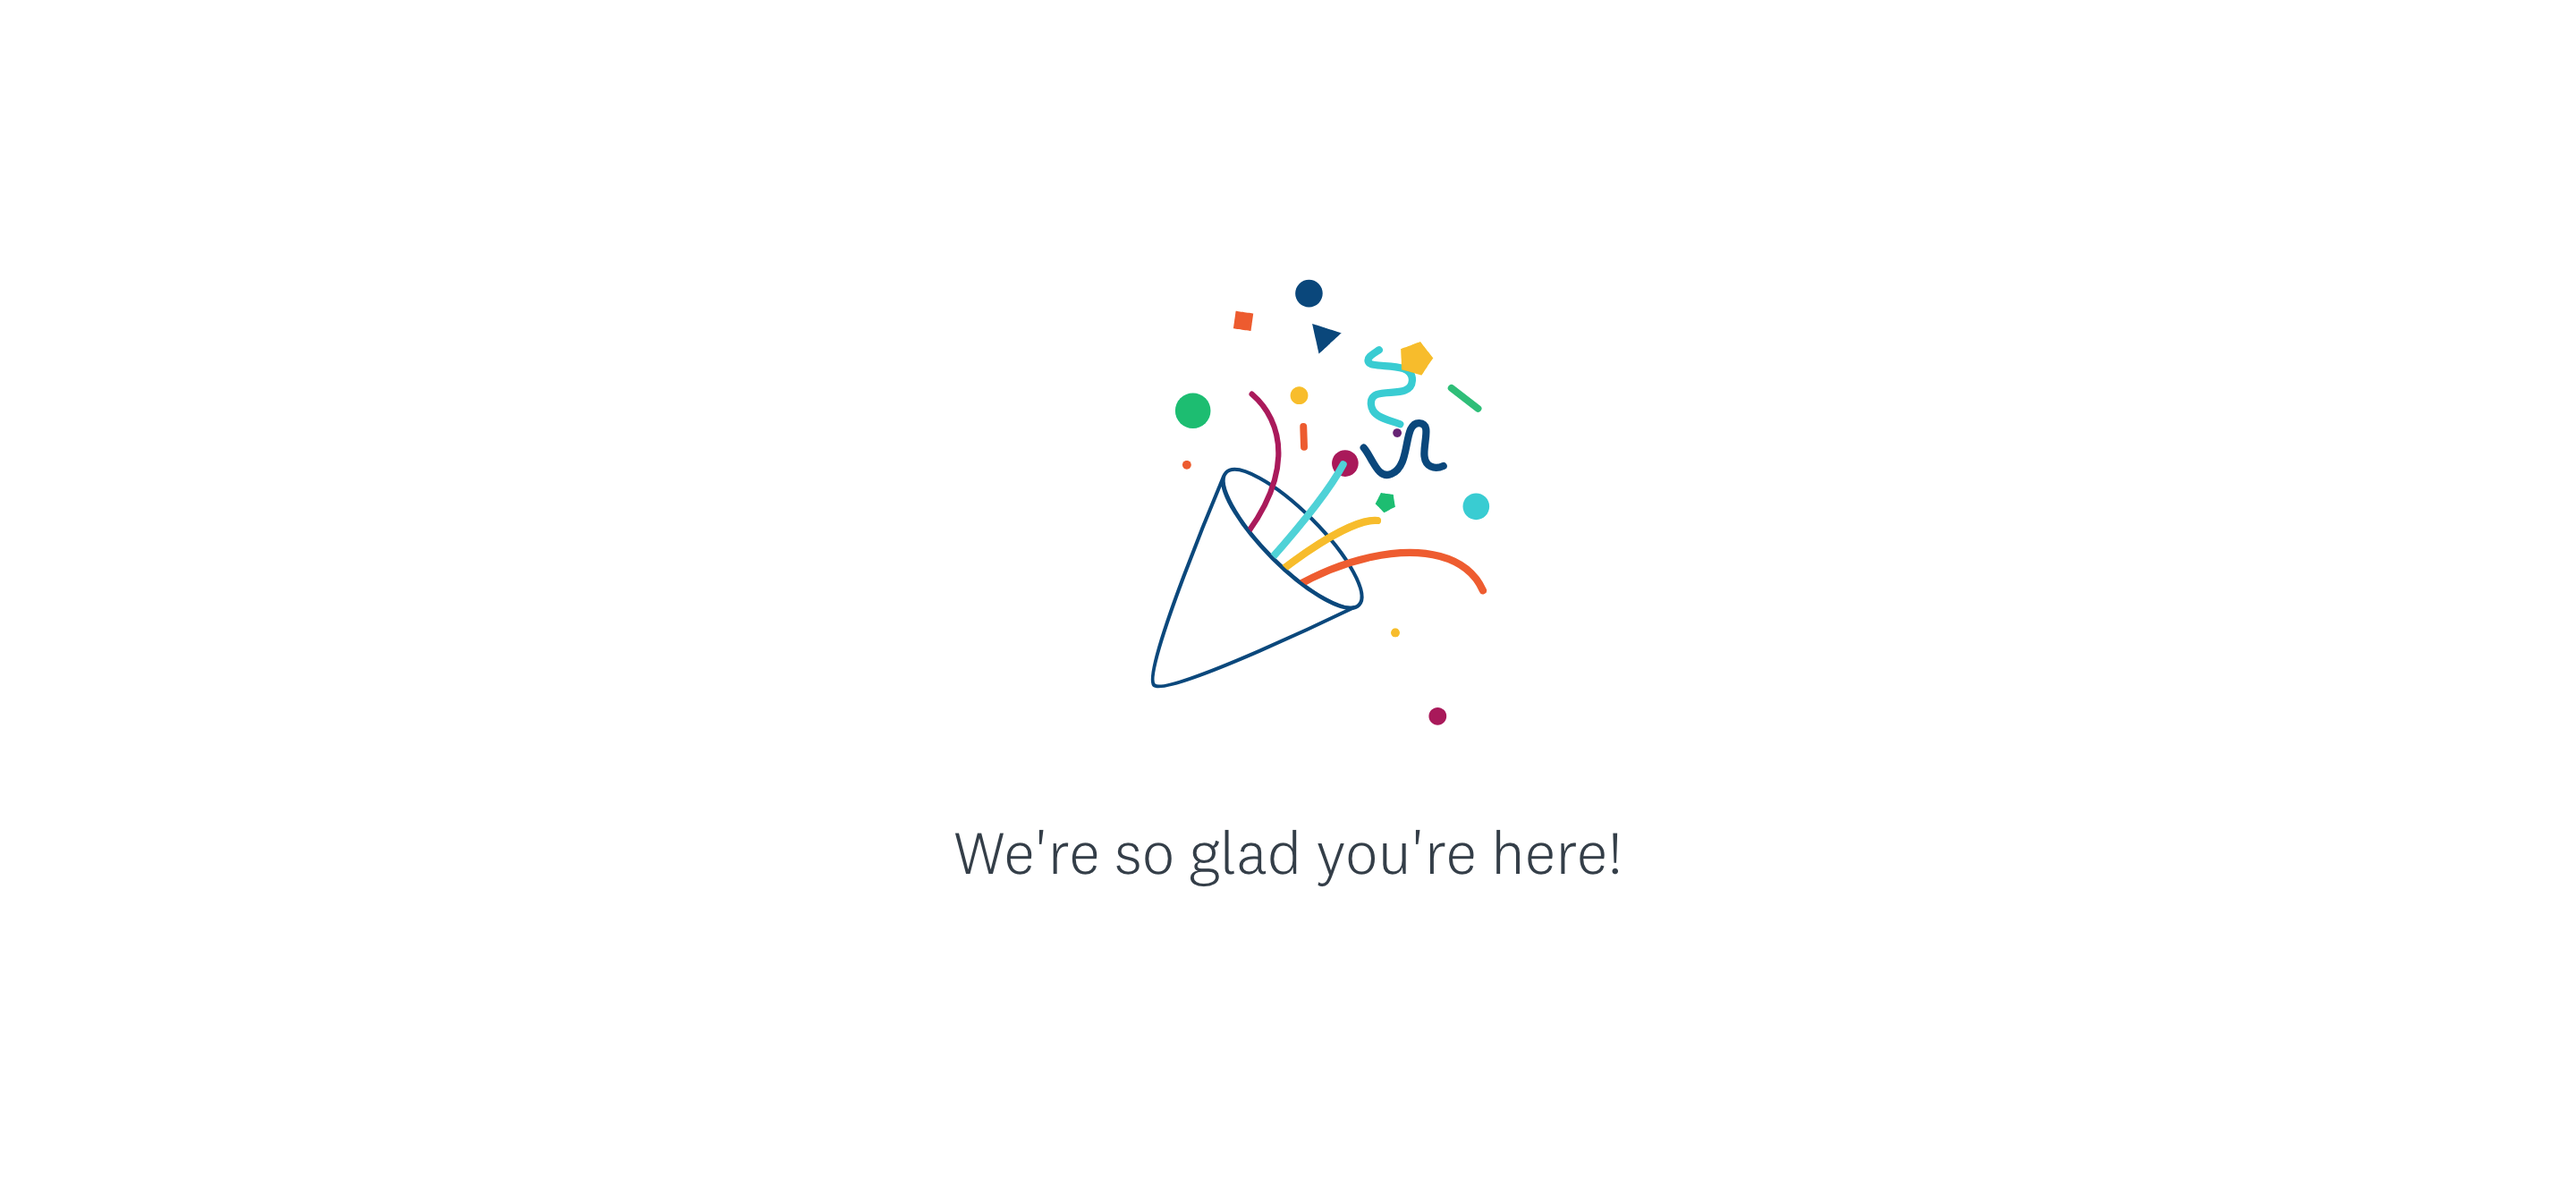
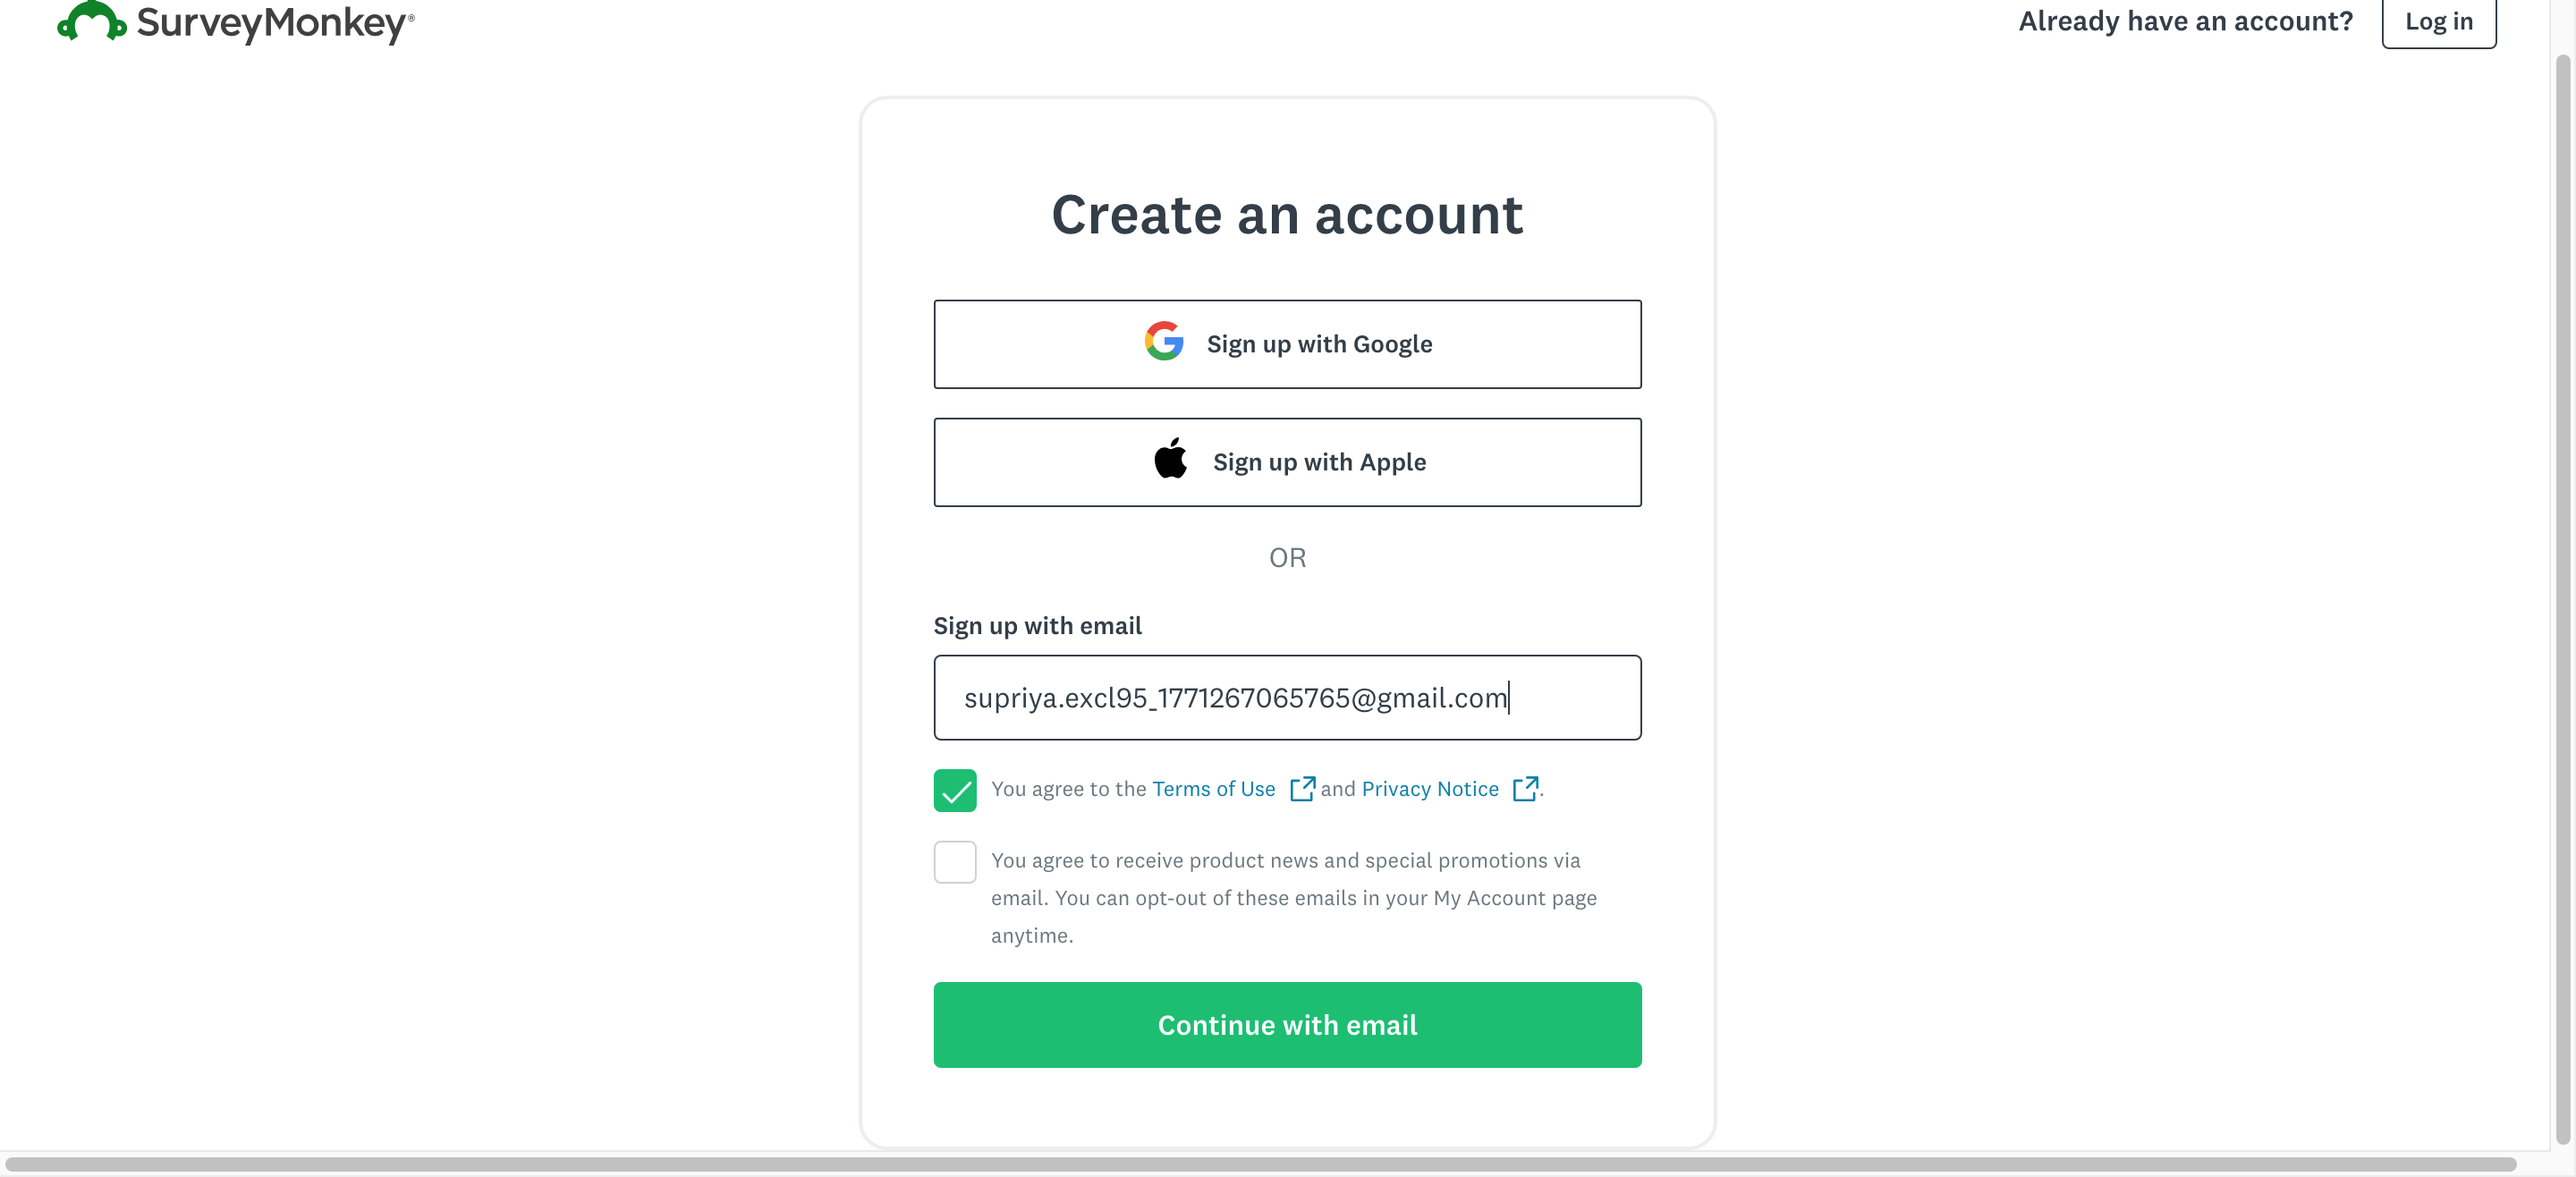
Improved stability of signup flow by updating Next button locator and adding explicit wait

diff --git a/src/main/java/com/supriya/surveymonkey/pages/DashboardPage.java b/src/main/java/com/supriya/surveymonkey/pages/DashboardPage.java
@@ -1,0 +1,24 @@
+package com.supriya.surveymonkey.pages;
+
+import org.openqa.selenium.WebDriver;
+import org.openqa.selenium.support.PageFactory;
+
+import com.supriya.surveymonkey.utilities.WaitUtils;
+
+public class DashboardPage {
+	
+	WebDriver driver ;
+    public WaitUtils waitUtils;
+    
+    
+    public DashboardPage(WebDriver driver) {
+		this.driver=driver;
+		this.waitUtils = new WaitUtils(driver, 10);
+		PageFactory.initElements(driver, this);
+
+	}
+    
+    
+    
+
+}

diff --git a/src/main/java/com/supriya/surveymonkey/pages/SignUpPage.java b/src/main/java/com/supriya/surveymonkey/pages/SignUpPage.java
@@ -30,7 +30,7 @@ public class SignUpPage {
     @FindBy(xpath   = "//input[@id='privacy-checkbox']")
     private WebElement promotionsCheckbox;
     
-    @FindBy(xpath  =  "//button[text() = 'Next']")
+    @FindBy(xpath  =  "//button[text() = 'Continue with email']")
 	private WebElement nextButtonElement;
     
     @FindBy(xpath = "//button[text() = 'Create account']")

diff --git a/src/main/java/com/supriya/surveymonkey/pages/LoginPage.java b/src/main/java/com/supriya/surveymonkey/pages/LoginPage.java
@@ -56,9 +56,10 @@ public class LoginPage {
     	
     }
     
-    public void loginToApplication(String email,String password ) {
+    public DashboardPage validLogin(String email,String password ) {
     	 enterEmail(email);
 	     enterPassword(password);
+		return new DashboardPage(driver);
     }
     
     
